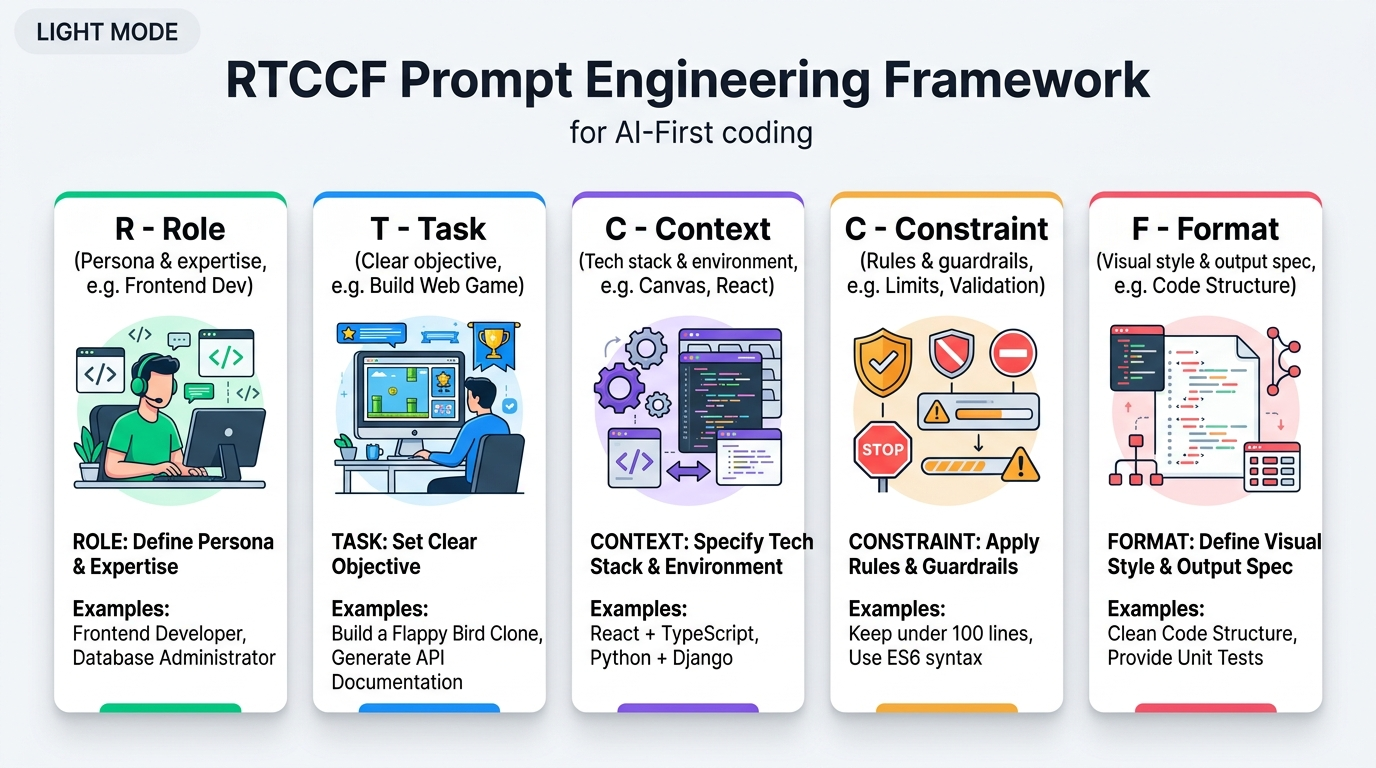
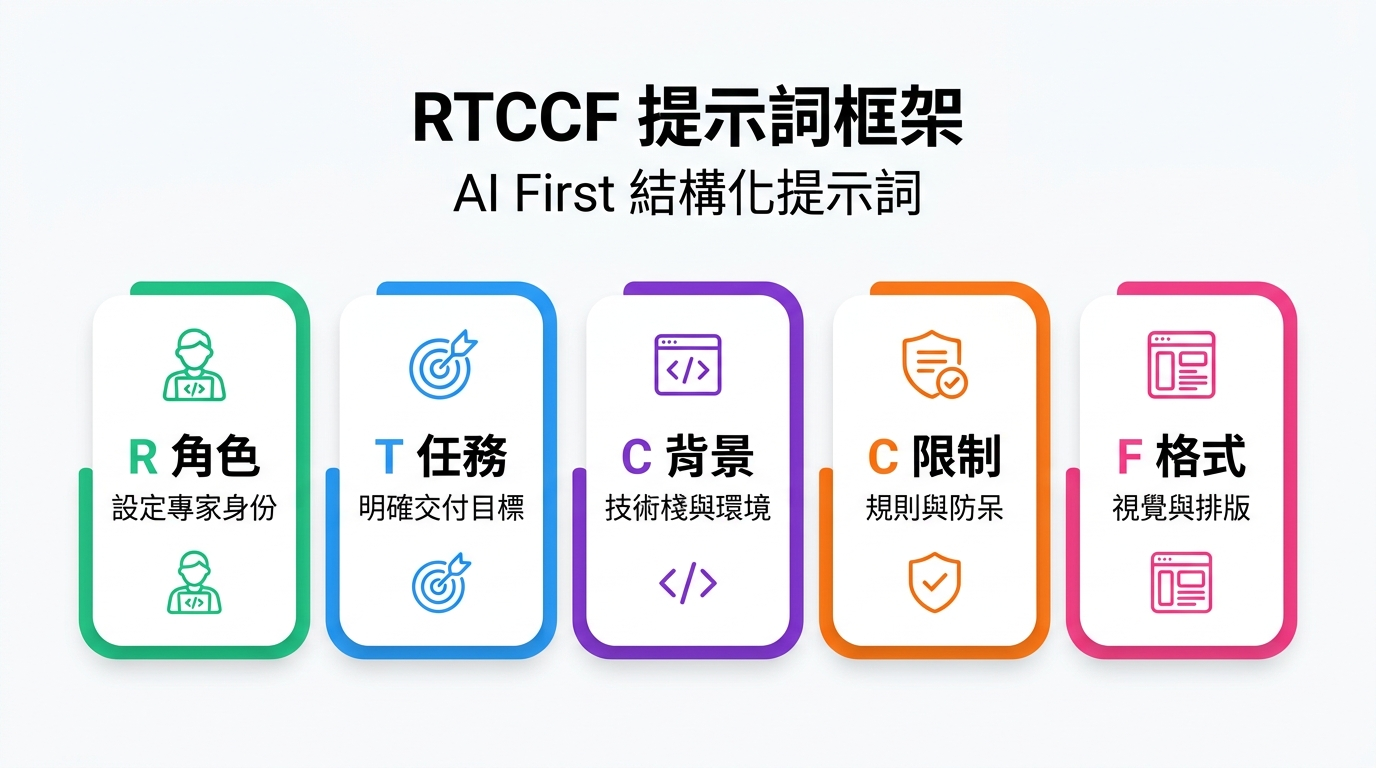
modify

diff --git a/prompt/README.md b/prompt/README.md
@@ -30,11 +30,11 @@
 
 ```mermaid
 flowchart LR
-    R["🧑💻 <b>1. R - Role 角色</b><br/>專家設定 / 人設立場"] 
-    --> T["🎯 <b>2. T - Task 任務</b><br/>核心目標 / 交付成果"] 
-    --> C1["⚙ <b>3. C - Context 背景</b><br/>技術棧 / 開發環境"] 
-    --> C2["🛡 <b>4. C - Constraint 限制</b><br/>遊戲規則 / 邊界防呆"] 
-    --> F["🎨 <b>5. F - Format 格式</b><br/>視覺風格 / 程式碼規範"]
+    R["🧑💻 <b>R 角色</b><br/>設定專家身份"] 
+    --> T["🎯 <b>T 任務</b><br/>明確交付目標"] 
+    --> C1["⚙ <b>C 背景</b><br/>技術棧與環境"] 
+    --> C2["🛡 <b>C 限制</b><br/>規則與防呆"] 
+    --> F["🎨 <b>F 格式</b><br/>視覺與排版"]
 
     style R fill:#e6fbf3,stroke:#10b981,stroke-width:2px,color:#064e3b
     style T fill:#e0f2fe,stroke:#0284c7,stroke-width:2px,color:#0c4a6e
